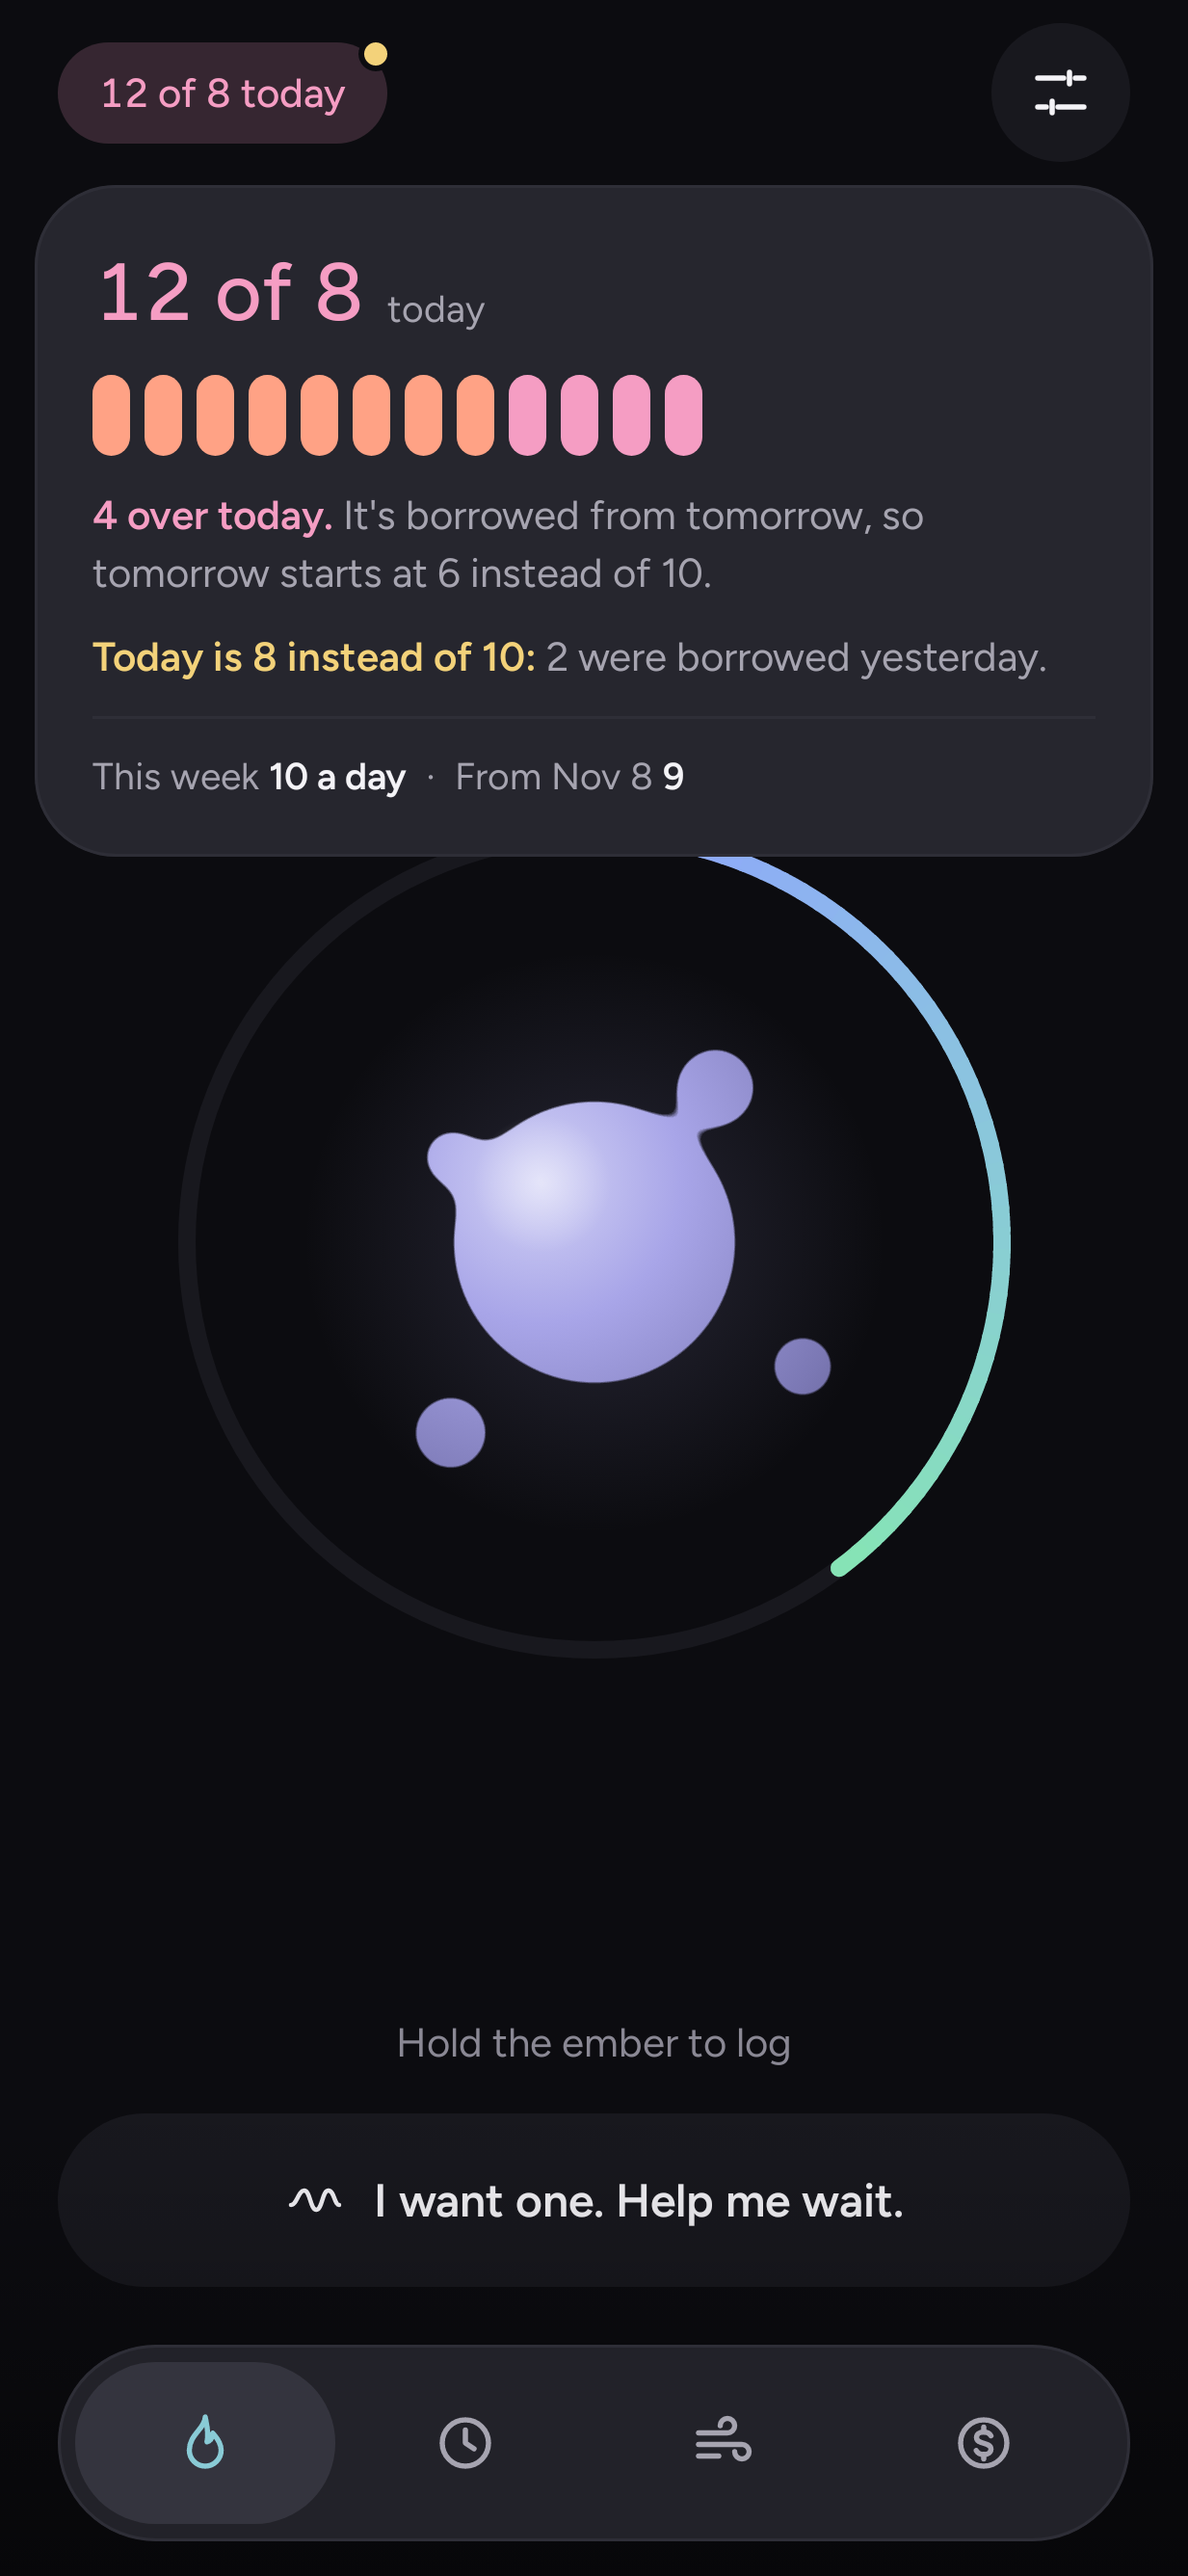
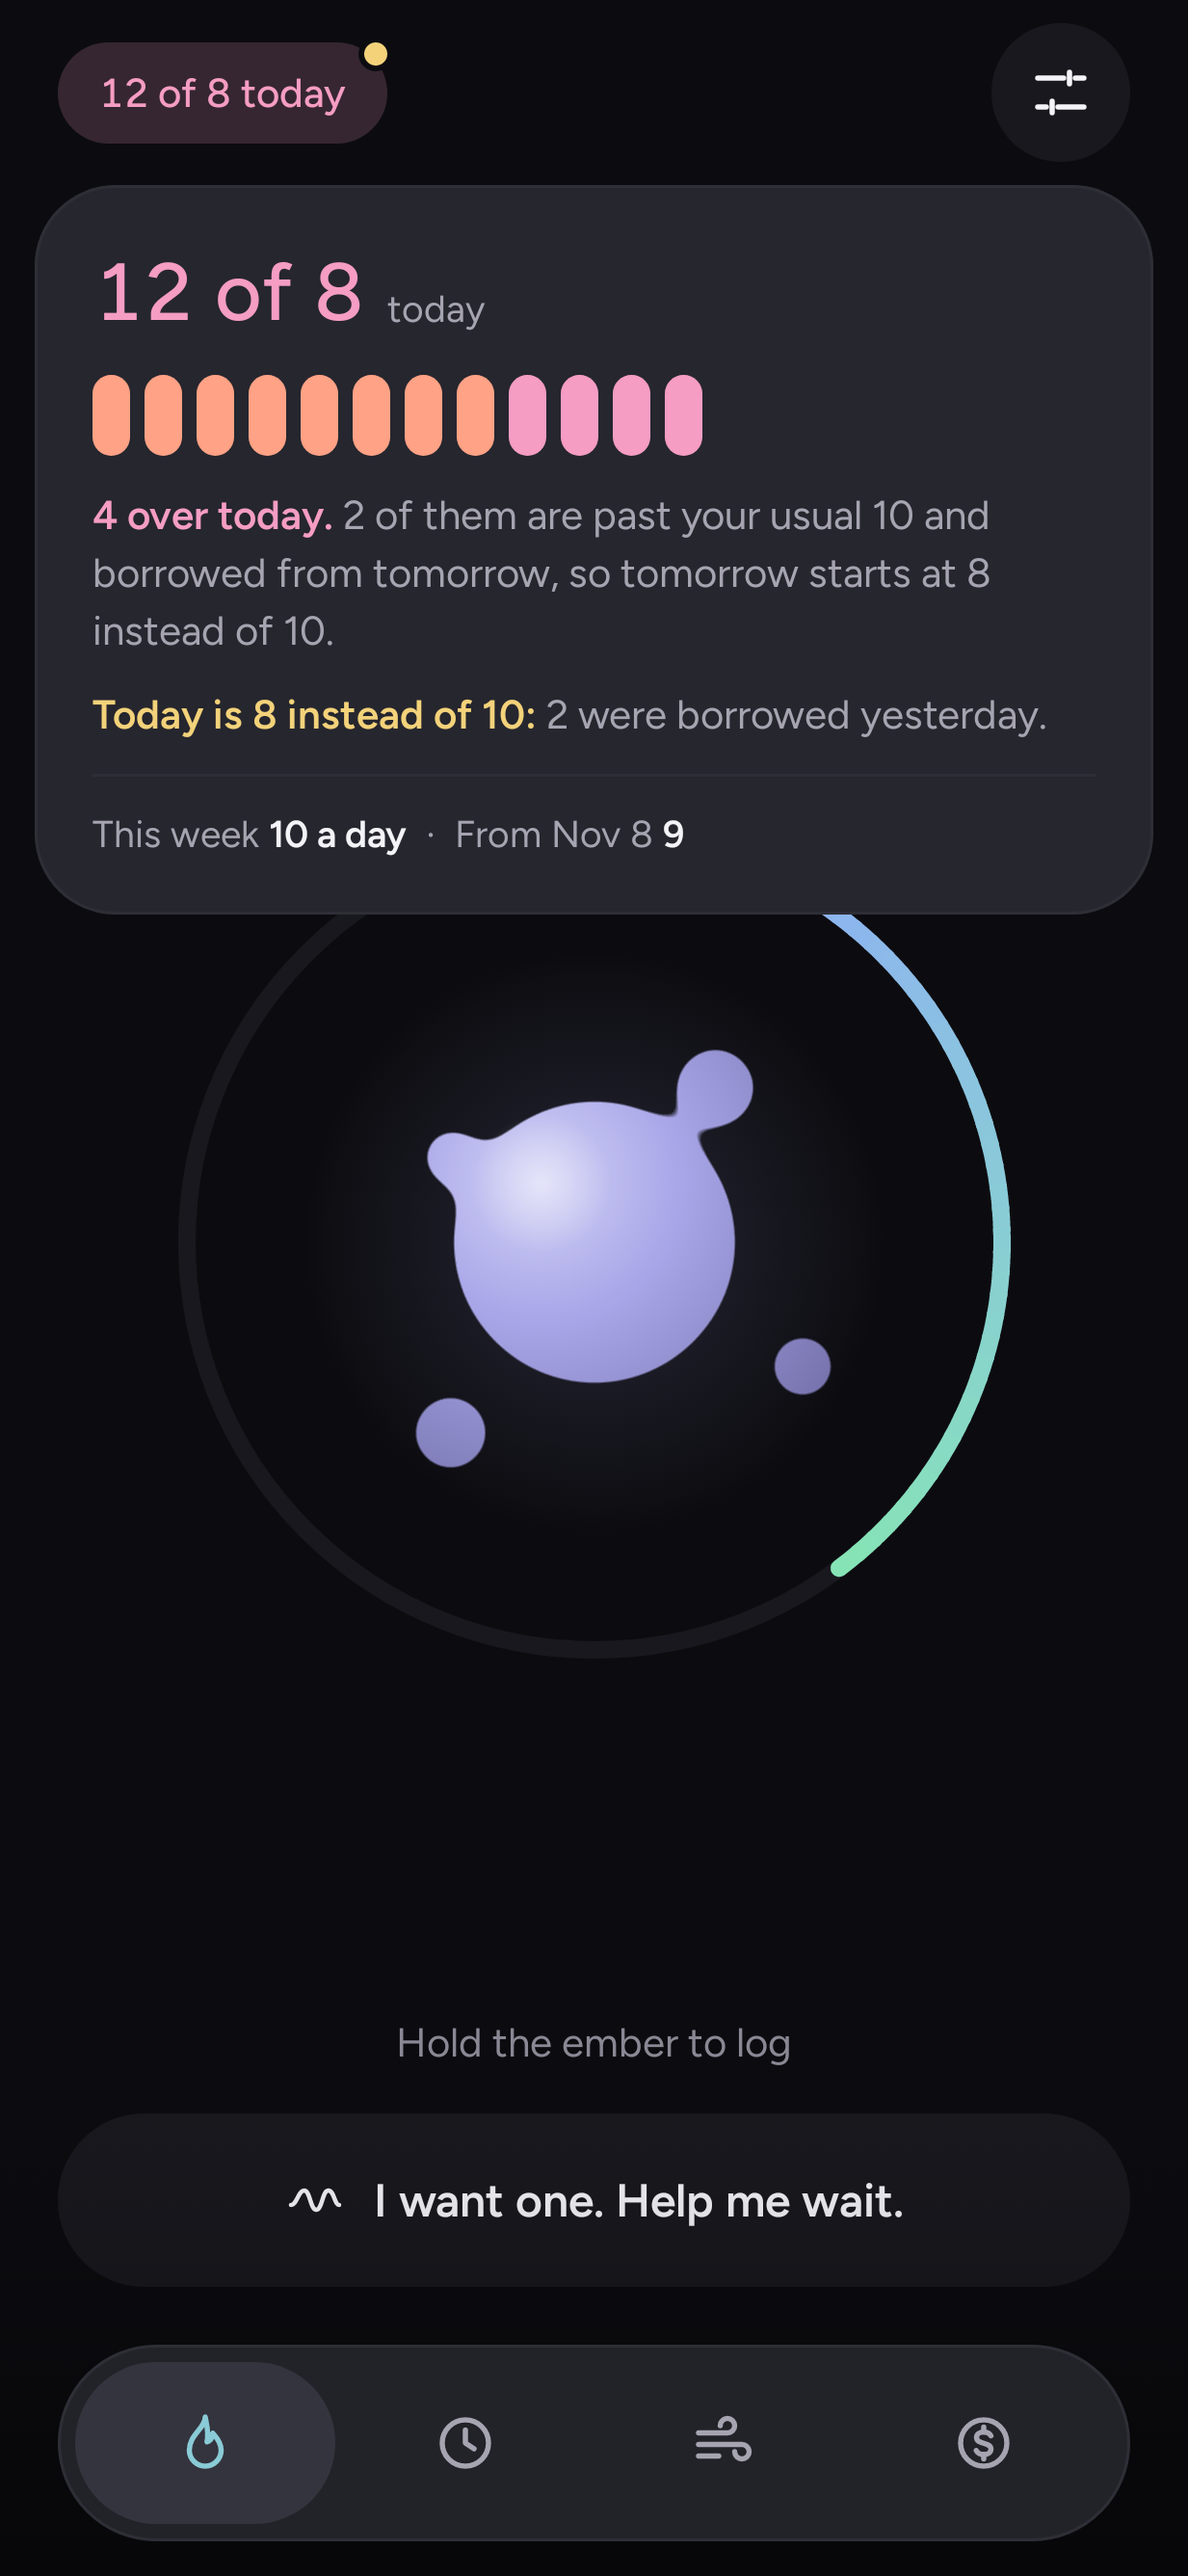
Make the Today popover's tomorrow agree with PlanMath debt
Debt is measured against the base allowance (SPEC §4), not the allowance
already lowered by yesterday. The popover subtracted everything over
today's allowance from tomorrow, so on a lowered day it overstated what
was borrowed (e.g. 9 of 8 with base 10 said tomorrow starts at 9; it is 10).

The popover now takes what is borrowed from PlanMath.debt and tomorrow's
start from PlanMath.allowance, and on lowered days says what is past the
usual base. "Over today" (badge pink, flare sticks) stays against today's
allowance. Adds a PlanMath test for the rule, a screenshot case for a
lowered day within the base, and updates SPEC §3.1 and §4.

Claude-Session: https://claude.ai/code/session_018i9YmsygVhHMCxkfb33VJA

Changed region(s): [[0.0308, 0.1863, 0.9862, 0.3726]]

diff --git a/app/src/main/java/app/exhale/ui/screens/EmberScreen.kt b/app/src/main/java/app/exhale/ui/screens/EmberScreen.kt
@@ -335,7 +335,12 @@ private fun TodayPopover(state: ExhaleState) {
     val base = PlanMath.baseAllowance(s, state.today)
     val over = state.todayCount - state.allowance
     val left = state.allowance - state.todayCount
+    // Borrowing is measured against today's base, not the lowered allowance (§4 Debt): on a lowered
+    // day, going over today's allowance only borrows what goes past the base.
+    val borrowing = PlanMath.debt(s, state.today, state.todayCount)
     val tomorrowBase = PlanMath.baseAllowance(s, state.today.plusDays(1))
+    val tomorrow = PlanMath.allowance(s, state.today.plusDays(1), state.todayCount)
+    val lowered = state.allowance < base
     val nextWeekDate = s.planStart.plusDays(((PlanMath.weeksIntoPlan(s.planStart, state.today) + 1) * 7).toLong())
     val nextWeek = PlanMath.baseAllowance(s, nextWeekDate)
     Column(
@@ -358,15 +363,22 @@ private fun TodayPopover(state: ExhaleState) {
             when {
                 over > 0 -> {
                     withStyle(SpanStyle(color = c.flareInk, fontWeight = FontWeight.SemiBold)) { append("$over over today. ") }
-                    append("It's borrowed from tomorrow, so tomorrow starts at ${(tomorrowBase - over).coerceAtLeast(0)} instead of $tomorrowBase.")
+                    when {
+                        borrowing == 0 -> append("You're still within your usual $base, so nothing is borrowed: tomorrow starts at $tomorrow.")
+                        borrowing < over -> append(
+                            "$borrowing of them ${if (borrowing == 1) "is" else "are"} past your usual $base and borrowed from tomorrow, " +
+                                "so tomorrow starts at $tomorrow instead of $tomorrowBase."
+                        )
+                        else -> append("It's borrowed from tomorrow, so tomorrow starts at $tomorrow instead of $tomorrowBase.")
+                    }
                 }
                 left == 0 -> {
                     withStyle(SpanStyle(color = c.ink, fontWeight = FontWeight.SemiBold)) { append("That's all for today. ") }
-                    append("Anything more is borrowed from tomorrow.")
+                    append(if (lowered) "Anything past your usual $base is borrowed from tomorrow." else "Anything more is borrowed from tomorrow.")
                 }
                 else -> {
                     withStyle(SpanStyle(color = c.ink, fontWeight = FontWeight.SemiBold)) { append("$left left today. ") }
-                    append("Going over isn't failing; anything over is borrowed from tomorrow.")
+                    append("Going over isn't failing; anything ${if (lowered) "past your usual $base" else "over"} is borrowed from tomorrow.")
                 }
             }
         }

diff --git a/app/src/test/java/app/exhale/ui/ScreenshotTest.kt b/app/src/test/java/app/exhale/ui/ScreenshotTest.kt
@@ -215,6 +215,9 @@ class ScreenshotTest {
     @Test fun emberOverDark() = shot("1d_ember_over", true, 0, bar = overState()) { EmberScreen(overState(), null, {}, {}, { _, _ -> }, {}, {}) }
     @Test fun emberTodayDark() = shot("1e_ember_today", true, 0, bar = overState(), todayOpen = true) { EmberScreen(overState(), null, {}, {}, { _, _ -> }, {}, {}, todayOpen = true) }
     @Test fun emberTodayLight() = shot("1e_ember_today", false, 0, bar = overState(), todayOpen = true) { EmberScreen(overState(), null, {}, {}, { _, _ -> }, {}, {}, todayOpen = true) }
+    /** A lowered day (base 10, 2 borrowed) that is over today's 8 but still within the base: nothing more is borrowed. */
+    private fun loweredWithinState() = overState().copy(todayCount = 9)
+    @Test fun emberTodayLoweredWithinDark() = shot("1g_ember_today_lowered", true, 0, bar = loweredWithinState(), todayOpen = true) { EmberScreen(loweredWithinState(), null, {}, {}, { _, _ -> }, {}, {}, todayOpen = true) }
     @Test fun emberTodayWithinLight() = shot("1f_ember_today_within", false, 0, bar = sampleState(38), todayOpen = true) { EmberScreen(sampleState(38), null, {}, {}, { _, _ -> }, {}, {}, todayOpen = true) }
     @Test fun emberHotDark() = shot("1b_ember_logged", true, 0, bar = sampleState(4)) { EmberScreen(sampleState(4), LoggedEvent(1, 5, 12), {}, {}, { _, _ -> }, {}, {}) }
     @Test fun emberHotLight() = shot("1b_ember_logged", false, 0, bar = sampleState(4)) { EmberScreen(sampleState(4), LoggedEvent(1, 5, 12), {}, {}, { _, _ -> }, {}, {}) }

diff --git a/app/src/test/java/app/exhale/domain/PlanMathTest.kt b/app/src/test/java/app/exhale/domain/PlanMathTest.kt
@@ -66,6 +66,19 @@ class PlanMathTest {
         assertEquals(0, PlanMath.debt(st, start.minusDays(1), 30)) // before the plan
     }
 
+    @Test fun debt_onALoweredDay_isMeasuredAgainstTheBase_notTheLoweredAllowance() {
+        val st = s(TaperType.HOLD, 10)
+        val today = start.plusDays(2)
+        val tomorrow = today.plusDays(1)
+        assertEquals(8, PlanMath.allowance(st, today, smokedYesterday = 12)) // 2 borrowed yesterday
+        // Over today's 8 but within the base 10: nothing is borrowed, tomorrow is the full base.
+        assertEquals(0, PlanMath.debt(st, today, 9))
+        assertEquals(10, PlanMath.allowance(st, tomorrow, smokedYesterday = 9))
+        // Only what goes past the base is borrowed: 12 is 4 over today's 8 but 2 past the base.
+        assertEquals(2, PlanMath.debt(st, today, 12))
+        assertEquals(8, PlanMath.allowance(st, tomorrow, smokedYesterday = 12))
+    }
+
     @Test fun interval_spreadsAllowanceOverWakingDay() {
         assertEquals(80, PlanMath.intervalMinutes(12, 960))
         assertEquals(960, PlanMath.intervalMinutes(0, 960))

diff --git a/docs/SPEC.md b/docs/SPEC.md
@@ -106,6 +106,13 @@ First launch shows **Onboarding** (§3.7). Regulate is no longer a tab: its coun
   Y." / "N left today. Going over isn't failing…" / "That's all for today…", plus "Today is A
   instead of B: N were borrowed yesterday." on a lowered day, and a footer with this week's and next
   week's allowance. Tap outside, press Back or start holding the ember to close it.
+  "Over today" (the badge's pink, the count, the flare sticks) is against today's allowance, but what
+  is borrowed from tomorrow follows §4 Debt: only what goes past today's *base*. X is
+  `PlanMath.allowance(tomorrow, todayCount)`, Y tomorrow's base. So on a lowered day (base 10, 2
+  borrowed, allowance 8) the over line reads "1 over today. You're still within your usual 10, so
+  nothing is borrowed: tomorrow starts at 10." at 9, and "4 over today. 2 of them are past your
+  usual 10 and borrowed from tomorrow, so tomorrow starts at 8 instead of 10." at 12; the other
+  lines say "anything past your usual 10" instead of "anything more/over".
 - Hero, one number that switches meaning: while waiting, time **until** the next one is earned
   ("58m · until your next one"); once earned, time **since** the last one ("2h 41m · since your last
   one · next one earned"). Before any log: "—" and "nothing logged yet".
@@ -320,7 +327,9 @@ Full-screen route from Rhythm's "All history ›" (back button, no tab bar).
 - `TEN_PERCENT_WEEKLY`: `max(0, min(ceil(start × 0.9^weeks), start − weeks))` (always ≥ 1 step/week)
 - `HOLD`: `start`
 - **Debt**: `max(0, smokedYesterday − baseAllowance(yesterday))`, only for days on/after plan start.
-  Today's allowance = `max(0, base(today) − debt)`. Debt only looks back one day.
+  Today's allowance = `max(0, base(today) − debt)`. Debt only looks back one day: it is measured
+  against the base, not the lowered allowance, so smoking past a lowered allowance but within the
+  base borrows nothing more.
 - **Interval** (minutes) = `wakingMinutes / allowance`; when allowance is 0, = `wakingMinutes`.
 
 ### Today — `TodayPlan`
